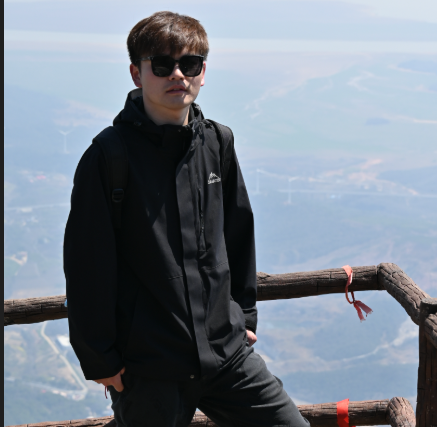
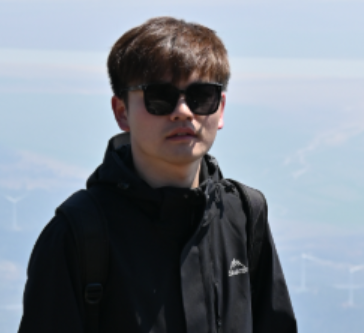
change photo

diff --git a/docs/index.html b/docs/index.html
@@ -889,7 +889,7 @@
 
     <div class="avatar-wrapper mt-10">
       
-      <img class="avatar rounded-full bg-white dark:bg-gray-800 p-1" src="/author/%E7%8E%8B%E6%98%8A/avatar_hu111112727367258620.png" alt="王昊"
+      <img class="avatar rounded-full bg-white dark:bg-gray-800 p-1" src="/author/%E7%8E%8B%E6%98%8A/avatar_hu3779266067395181332.png" alt="王昊"
            width="150" height="150">
       <span class="avatar-emoji">☕</span>
     </div>
